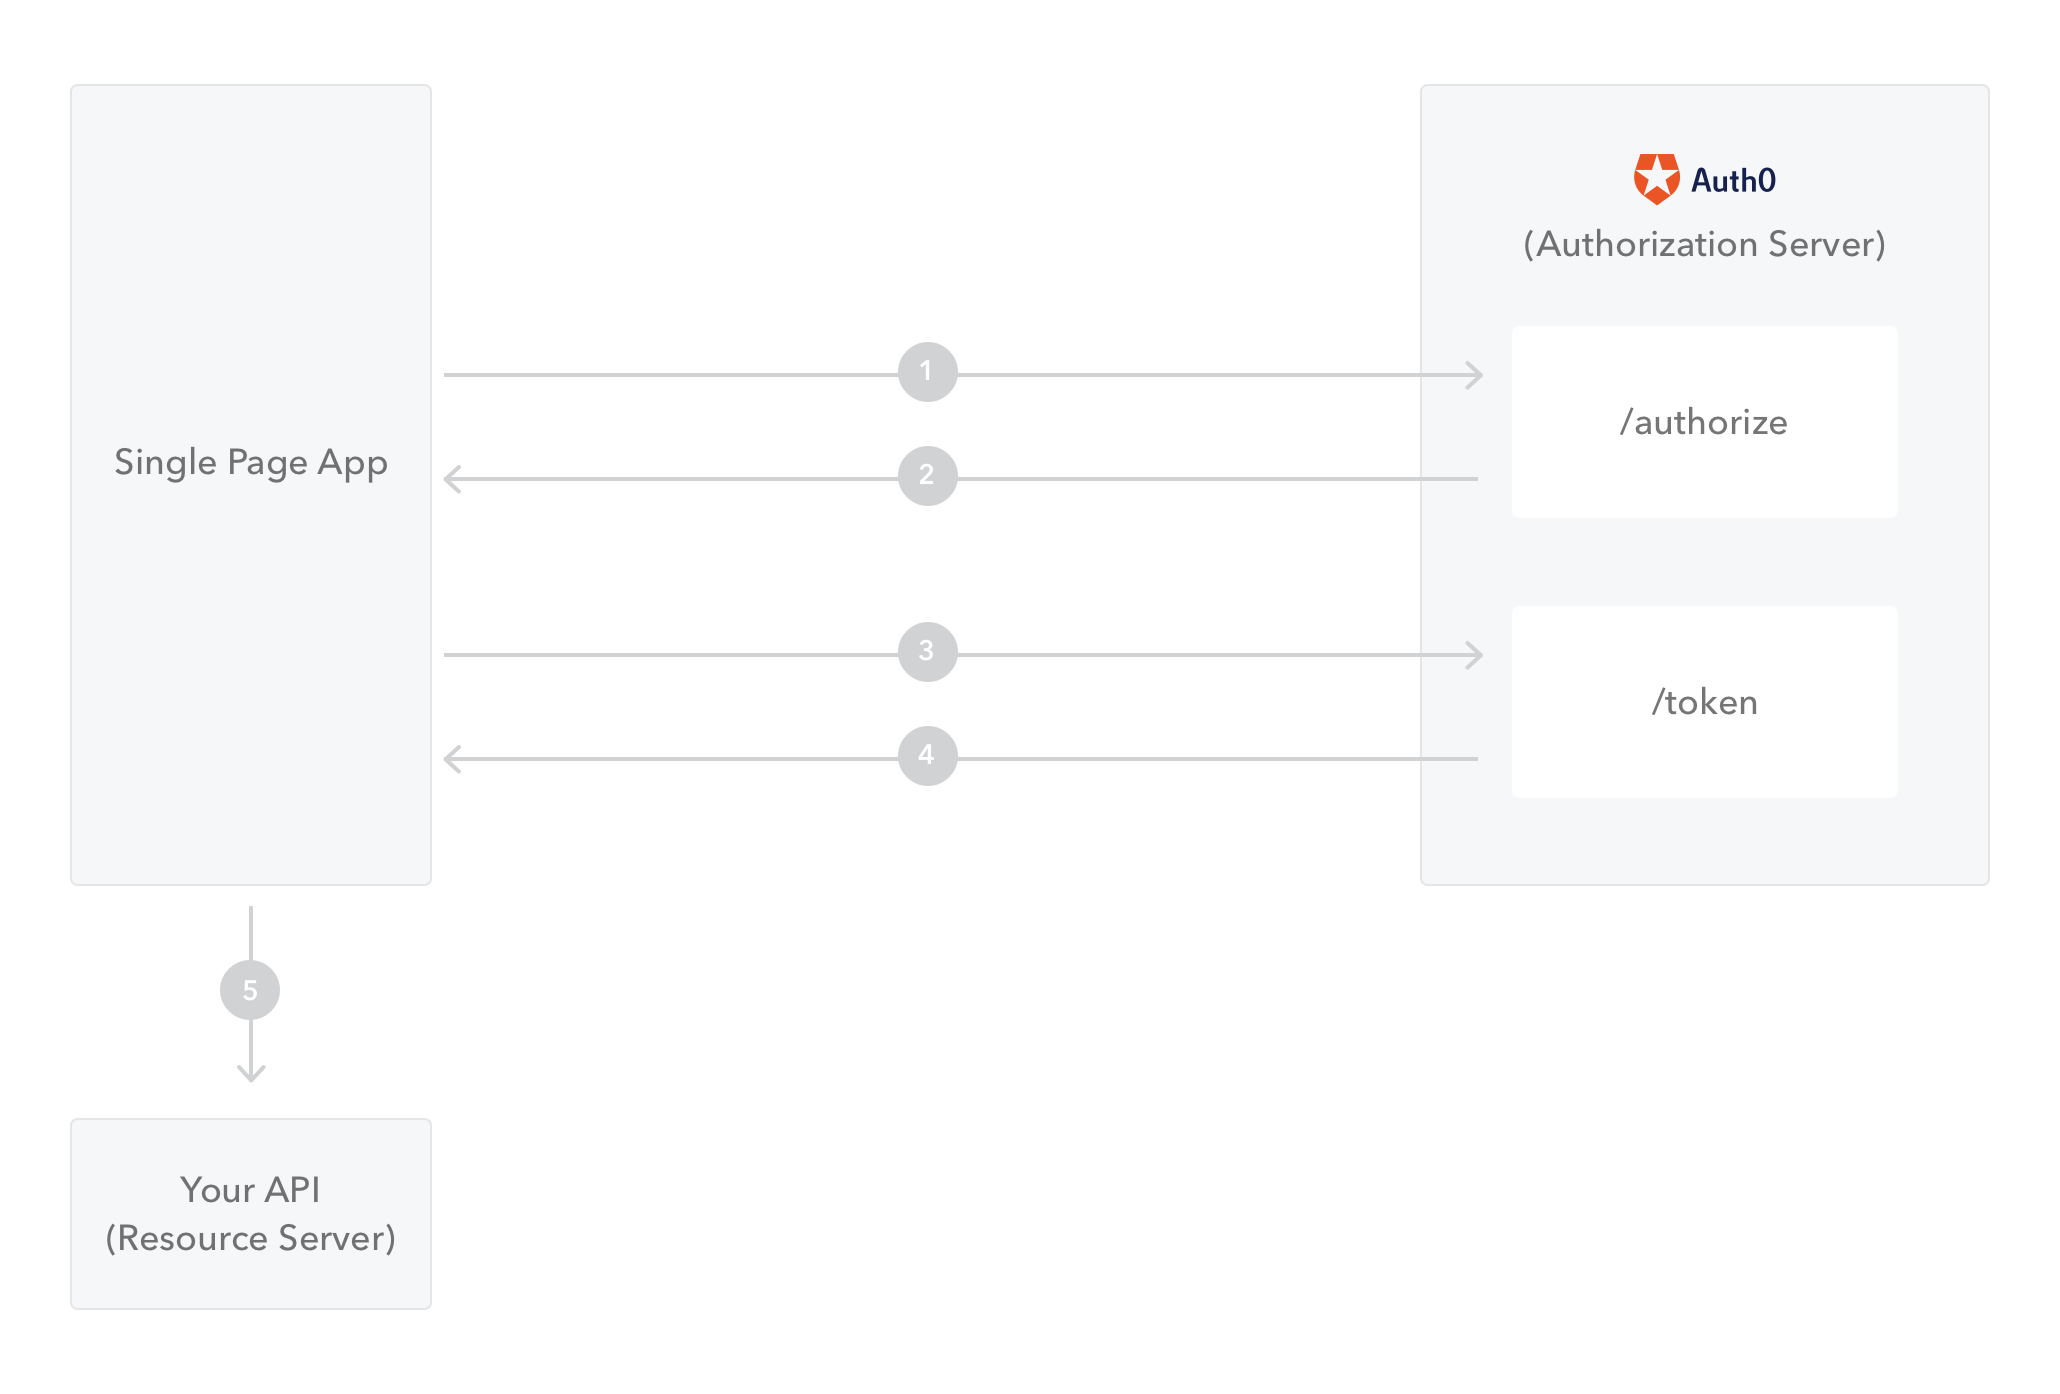
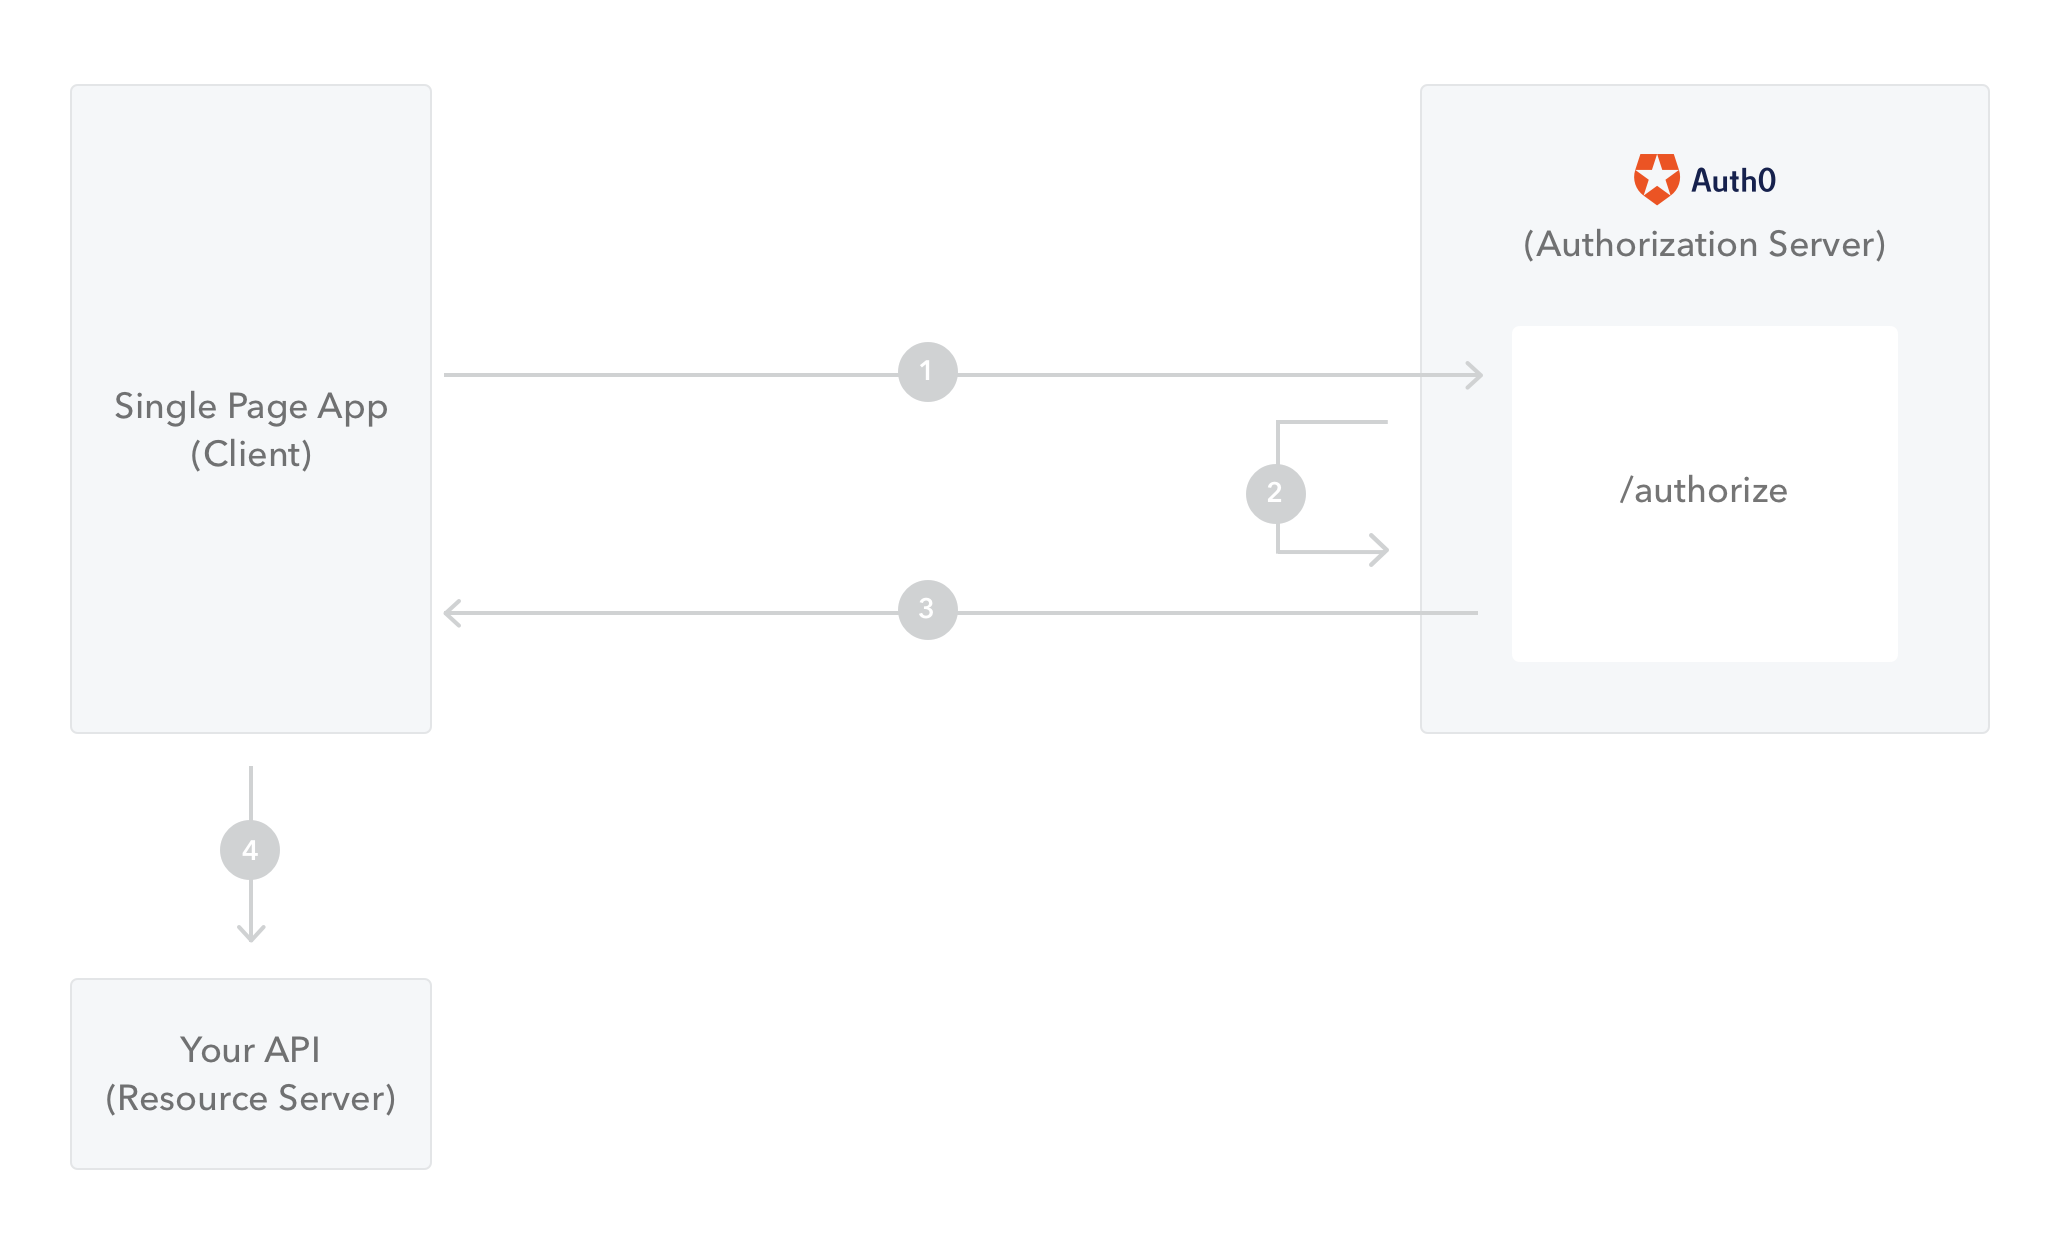
Updates to the image used in the concepts

diff --git a/articles/microsites/call-api/call-api-single-page-app.md b/articles/microsites/call-api/call-api-single-page-app.md
@@ -21,11 +21,10 @@ Your user will authenticate, and Auth0 will generate an ID Token and Access Toke
 
 When your app needs to fetch user data from your API:
 
-1. If the user is not already authenticated, our SDK redirects the user to your Auth0 Authorization Server, requesting an Authorization Code and ID Token.
-2. The user authenticates with Auth0 using one of your configured login options (e.g., username/password, social identity provider, SAML), and Auth0 responds with the code and ID Token.
-3. Your app's API back-end can use the code to request an ID Token, Access Token, and Refresh Token from Auth0's Token endpoint.
-4. Auth0 responds with the user's requested tokens.
-5. The Access Token can be used to call your API and retrieve requested data.
+1. If the user is not already authenticated, our SDK redirects the user to your Auth0 Authorization Server, requesting an ID Token.
+2. The user authenticates with Auth0 using one of your configured login options (e.g., username/password, social identity provider, SAML), 
+3. Auth0 responds with the user's ID Token and Access Token.
+3. The Access Token can be used to call your API and retrieve requested data.
 
 For single-page web apps, Auth0 uses the [Single-Page Login Flow](/flows/concepts/single-page-login-flow).
 
@@ -36,11 +35,9 @@ For single-page web apps, Auth0 uses the [Single-Page Login Flow](/flows/concept
 ::: steps
   1. <h4>Configure your API</h4>Once you have created your API, you will need to configure any scopes that applications can request during authorization.
 
-  2. <h4>Get an Access Token</h4>Your app requests an Access Token (and optionally, a Refresh Token) from your Auth0 Authorization Server using the <a href="/flows/concepts/single-page-login-flow">Single-Page Login Flow</a>.
+  2. <h4>Get an Access Token</h4>Your app requests an Access Token from your Auth0 Authorization Server using the <a href="/flows/concepts/single-page-login-flow">Single-Page Login Flow</a>.
 
   3. <h4>Call your API</h4>When your app calls your API, it includes the retrieved Access Token in the HTTP Authorization header.
-  
-  4. <h4>Refresh your Access Token</h4>When the Access Token expires you can use the Refresh Token to get a new one from your Auth0 Authorization Server.
 :::
 
 

diff --git a/articles/flows/concepts/single-page-login-flow.md b/articles/flows/concepts/single-page-login-flow.md
@@ -16,7 +16,7 @@ useCase:
 ---
 # Single Page Login Flow
 
-During authentication, single-page applications (SPAs) have some special requirements. Since the SPA is a public client, it is unable to securely store information such as a Client Secret. As such a special authentication flow exists called the OAuth 2.0 Implicit Flow. Using the Implicit Flow (defined in [OAuth 2.0 RFC 6749, section 4.2](https://tools.ietf.org/html/rfc6749#section-4.2)) streamlines authentication by returning tokens without introducing any unnecessary additional steps.
+During authentication, single-page applications (SPAs) have some special requirements. Since the SPA is a public client, it is unable to securely store information such as a Client Secret. As such a special authentication flow exists called the OAuth 2.0 Implicit Flow (defined in [OAuth 2.0 RFC 6749, section 4.2](https://tools.ietf.org/html/rfc6749#section-4.2)). Using the Implicit Flow streamlines authentication by returning tokens without introducing any unnecessary additional steps.
 
 
 ## How it works
